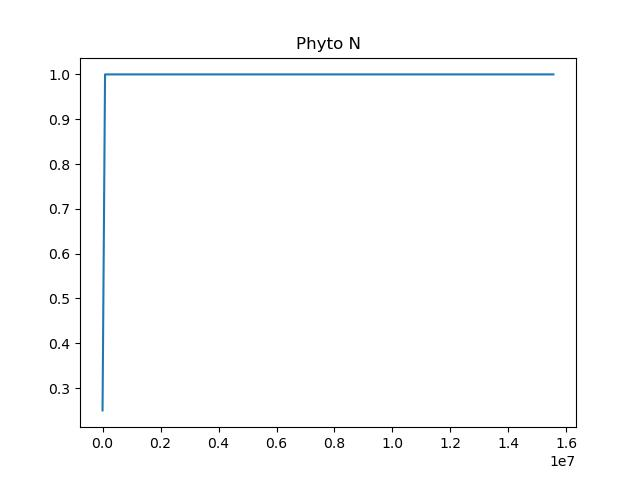
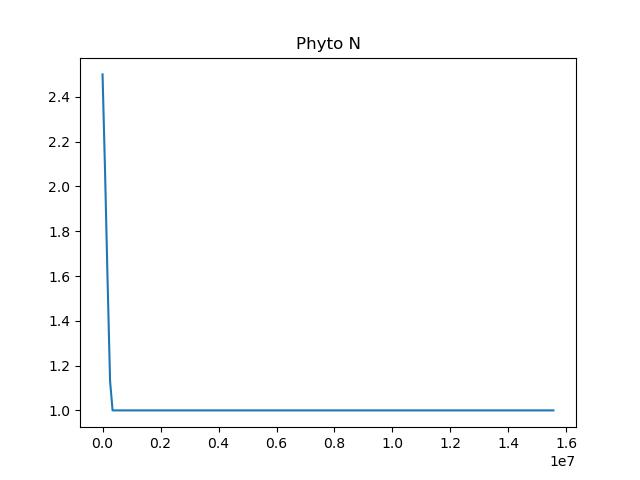
begin debugging npzd

diff --git a/functions/bgc_rate_eqns.py b/functions/bgc_rate_eqns.py
@@ -5,19 +5,9 @@ from functions import rates, seasonal_cycling
 from setup.initialize import coordinate_system
 
 
-# def bgc_rate_eqns(iter, file_path, tracers):
 def bgc_rate_eqns(iter, base_element, parameters, tracers):
     
-    # ----------------------------------------------------------------------------------------------------
     # Extract model paramters
-    # ----------------------------------------------------------------------------------------------------
-    # with open(file_path, 'r') as f:
-    #     model_info = yaml.full_load(f)
-    #     base_element = model_info["base_element"]
-    #     model = model_info["tracers"]
-    #     parameters = model_info["parameters"]
-    #     reactions = model_info["reactions"]
-
     environmental_parameters = parameters["environment"]
     simulation_parameters = parameters["simulation"]
     water_column_parameters = parameters["water_column"]
